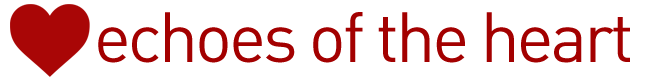
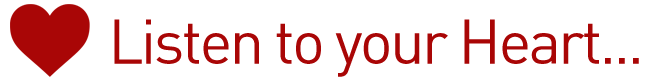
Change the game name.

Changed region(s): [[0.1538, 0.15, 0.9846, 0.95]]

diff --git a/index.html b/index.html
@@ -2,7 +2,7 @@
 <html>
 <head>
 <title>
-	Echoes of the Heart
+	Listen to your Heart
 </title>
 <link rel='stylesheet' href='css/bootstrap.css'/>
 <link rel='stylesheet' href='css/style.css'/>
